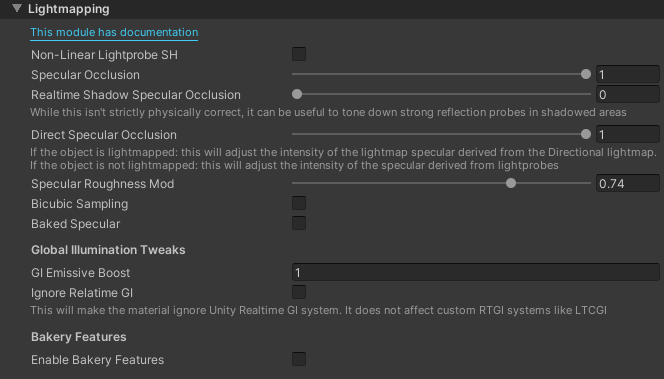
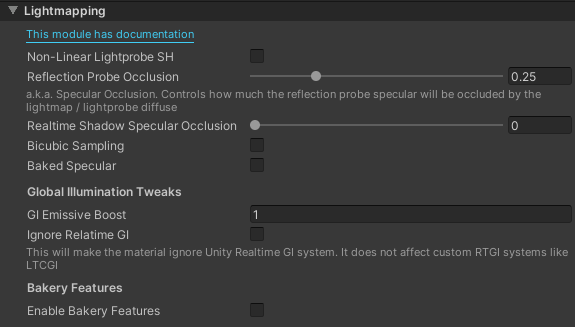
added docs for 6.4.0-dev.8

diff --git a/src/pages/docs/vfx/clouds.md b/src/pages/docs/vfx/clouds.md
@@ -20,17 +20,35 @@ Put this shader on a pre-subdivided mesh. I recommend anywhere from 32k to 128k 
 
 ## Settings
 
-- Noise Tex: A special pre-baked noise texture that is not meant to be changed
 - Depth Transparency: Controls the amount of depth-based blending applied. Based on the name - requires a depth light (see below)
-- Color Bottom: Controls the start color of the gradient
+- Apply Shading: Enables realtime Directional Light-base shading using a **Shade Ramp**
+- Shade Ramp: Controls the color of the shading applied to the clouds. Only visible when **Apply Shading** is enabled
+- Tint: Tins the **Shade Ramp**. Only visible when **Apply Shading** is enabled
+- Recalculate Normals: Enables a fairly expensive normal recalculation on the mesh. This can provide more accurate shading results. Only visible when **Apply Shading** is enabled
+- Normal Precision: Controls how close the final normals will be based on the extrusion applied to the mesh. Lower values = higher precision, but noisier results. Only visible when **Apply Shading** is enabled
+- Color Bottom: Controls the start color of the gradient.
 - Color Top: Controls the end color of the gradient
 - Height Bottom: Controls the position of the gradient start, applied in local space
 - Height Top: Controls the position of the gradient end, applied in local space
+
+- Noise Tex: A special pre-baked noise texture that is not meant to be changed
 - Extrusion Mode: Determines the way the cloud movement is done
   - Normal: The mesh will move along the normal vectors of the surface
   - World Space: The mesh will be moved along the pre-determined direction in world space
 - Extrusion Direction: Only visible when Extrusion Mode is set to World Space. Controls the world-space direction of the extrusion applied by the cloud noise
 - Only Top: Only visible when Extrusion Mod is set to World Space. Limits the vertex movement to the upwards-facing vertices
+- Mask Mode: Controls masking of the extrusion effect
+  - Texture: Uses a texture mask to mask the extrusion amount
+  - Vertex Color: Uses the vertex color to mask the extrusion amount
+- Mask: The mask texture to use. Only visible when **Mask Mode** is set to **Texture**
+- Mapping Space: Controls the coordinate space the texture is applied in. Only visible when **Mask Mode** is set to **Texture**
+  - UV: Uses mesh's UV coordinates to map the mask texture
+  - Local Space: Uses the Local Space coordinates of the mesh to map the mask texture
+  - World Space: Uses the World Space coordinates of the mesh to map the mask texture
+- UV Set: Picks the UV set to use for the mask texture. Only visible when **Mask Mode** is set to **Texture** and **Mapping Space** is set to **UV**
+- X/Y Axis: Controls the axis the mask texture is applied on. Only visible when **Mask Mode** is set to **Texture** and **Mapping Space** is set to **Local Space** or **World Space**
+- Mask Channel: Controls which texture or vertex color channel to use for masking. Allows you to pack things more efficiently
+- Mask Strength: Controls the strength of the masking effect
 
 {% callout type="note" title="Requires Depth Pass" %}
 The depth blending effect requires a depth pass in the world. The easiest way to achieve one is to create a light with settings like this:

diff --git a/src/pages/docs/changelog.md b/src/pages/docs/changelog.md
@@ -11,7 +11,7 @@ ORL Shaders Changelog
 
 ### Summary
 
-Update 6.4.0 focuses on improving the current feature set, quality-of-life changes, and fixing bugs
+Update 6.4.0 brings a plethora of new features, improvements, and bugfixes. There is no particular focus in this update. Please enjoy!
 
 ### New Shaders
 
@@ -29,12 +29,17 @@ Update 6.4.0 focuses on improving the current feature set, quality-of-life chang
 - Toon shader can now use outlines without stencil. This can be useful for adding extra detail
 - LTCGI effect brightness can now be clamped to a 0-1 range and has a Maximum Brightness setting
 - You can now use BIRP Standard shader-style Detail Albedo mixing. This can be toggled via "Legacy Albedo Mixing" when using the Separated Detail Map mode.
-- "Direct Specular Occlusion" slider has been added to the Lightmapping section of all the Standard shaders. This can be used to control how much occlusion is applied to baked specular, e.g. from directional lightmaps or lightprobes.
+- "Baked Specular Occlusion" slider has been added to the Lightmapping section of all the Standard shaders. This can be used to control how much occlusion is applied to baked specular, e.g. from directional lightmaps or lightprobes.
+- Added a "Force Discard" toggle to the [UI Sheen](/docs/ui/sheen) shader. This can be used to force-discard transparent pixels of the sprite to avoid white line artifacts on the edges of the sprite.
+- Shader Generator now supports `%PostVertex` function blocks in all Templates. This allows you to modify the final output of the Vertex shader, after the `VertexBase` function runs.
+- The [VFX Clouds](/docs/vfx/clouds) shader got a major update.
+  - Now supports Directional Light-based shading, using a color ramp (similar to toon shaders).
+  - Now supports normal recalculation. This provides more accurate shading that follows the extruded shape of the clouds. This effect can be a little noisy, so you can use the Precision slider to adjust it until it looks good.
 
 ### Bugfixes
 
 - The tangent normals sign is now properly calculated per-vertex. This should not affect most users
-- Specular occlusion now properly occludes reflection probes again. You might need to tune the Specular Occlusion slider to adjust the effect
+- Specular occlusion now properly occludes reflection probes again. You might need to tune the Specular Occlusion slider to adjust the effect. Please note that the slider has been renamed to "Reflection Probe Occlusion" in the UI
 - Fixed off-by-one errors in the channel selector for Albedo and Emission textures
 - Shader tags are now de-duplicated automatically, this can help with some issues with Bakery Lightmapper
 
@@ -42,6 +47,8 @@ Update 6.4.0 focuses on improving the current feature set, quality-of-life chang
 
 - The channel packer will now default Alpha channel slot to read from the Red channel, as that is the most common use-case
 - Updated the Tessellated Displacement shader to use latest shader generator tech. It now has MONOSH and can be used with Configurable shaders.
+- "Specular Occlusion" has been renamed to "Reflection Probe Occlusion" to better reflect what is happening under the hood.
+- Some properties in the Lightmapping section were moved around to improve usability.
 
 ## v6.3.0
 

diff --git a/src/pages/docs/orl-standard/base-shader.md b/src/pages/docs/orl-standard/base-shader.md
@@ -182,14 +182,16 @@ GSAA, or Geometric Specular Anti Aliasing, helps avoid severe specular aliasing 
 ![Lightmapping Controls](/img/docs/orl-standard/base-shader/lightmapping.png)
 
 - Non-Linear Lightprobe SH: Enables higher quality lightprobe sampling which is more accurate and behaves much better in high-intensity lighting scenarios. Is recommended for use on PC platforms, but might be fairly expensive on mobile.
-- Specular Occlusion: Controls the amount of Specular Occlusion applied to the material. This helps limit the amount of "unity shine" which is often present on metallic surfaces (see comparison below). This applies to both lightmapped and non-lightmapped objects
+- Reflection Probe Occlusion (Previously **Specular Occlusion**): Controls the amount of Specular Occlusion applied to the reflection probe specular on this material. This helps limit the amount of "unity shine" which is often present on metallic surfaces (see comparison below). This applies to both lightmapped and non-lightmapped objects
 - Realtime Shadow Specular Occlusion: Controls the amount of Specular Occlusion driven by the Realtime Shadows. This effect is not physically accurate but it can be useful to tame the strong specular on dynamically lit objects.
-- Direct Specular Occlusion: Controls how much occlusion to apply to various sources of direct baked specular.
+- Bicubic Sampling: Dramatically increases quality of the baked shadows, especially on the lower resolution lightmaps at a fairly small performance hit
+- Baked Specular: Toggles the display of baked specular
+  - If the object is lightmapped - the Directional lightmap will be used. Recommended to be used with Bakery's MonoSH mode
+  - If the object is not lightmapped - the specular will be derived from Light Probes. Useful for avatars and other dynamic meshes
+- Specular Roughness Mod: Allows you to influence the roughness of Baked Specular, which can sometimes be too intensive due to imperfections of Baked Specular direction
+- Baked Specular Occlusion: Controls how much occlusion to apply to various sources of direct baked specular.
   - If the object is lightmapped: this will adjust the intensity of the lightmap specular derived from the Directional lightmap.
   - If the object is not lightmapped: this will adjust the intensity of the specular derived from lightprobes
-- Specular Roughness Mod: Allows you to influence the roughness of Baked Specular, which can sometimes be too intensive due to imperfections of Baked Specular direction
-- Bicubic Sampling: Dramatically increases quality of the baked shadows, especially on the lower resolution lightmaps at a fairly small performance hit
-- Baked Specular: Toggles the display of baked specular. Only relevant when using some kind of Directional lightmap, e.g., Dominant Direction or Bakery's RNM or SH.
 - Global Illumination Tweaks
   - GI Emissive Boost: Boosts the emissive contribution to the Global Illumination, can be useful for Realtime GI scenarios
   - Ignore Realtime GI: Completely skips applying Realtime Lightmaps, which can be useful in scenarios where you want to only use Realtime GI for light probes

diff --git a/src/pages/docs/generator/orl-shader-definition.md b/src/pages/docs/generator/orl-shader-definition.md
@@ -241,6 +241,10 @@ You must provide a function name, and it must be unique across all included modu
 
 Same as [Fragment](#fragmentstring-functionname) but now its injected into the vertex stage
 
+### `%PostVertex(string functionName)`
+
+Same as [Vertex](#vertexstring-functionname) but this one is injected after the main `VertexBase` function of the Lighting Model. This is useful if you want to modify the vertex data after the main vertex function has already run.
+
 ### `%Color(string functionName)`
 
 Contains your FinalColor modifier code. It is appended after the lighting calculations have already been done, and allows to affect the very final output of the shader
@@ -359,7 +363,7 @@ The built-in templates allow you to enable optional features by specifying some 
 - `NEED_DEPTH`: Adds the depth texture macro, which creates a depth texture as `_CameraDepthTexture`
 - `NEED_FRAGMENT_IN_SHADOW`: Forces the shadowcaster pass to execute all of the included fragment functions (except the lighting calculation), useful if you want to utilize the final calculated alpha to augment the shadow silhouette.
 - `NEED_FRAGMENT_IN_PREPASS`: When using Toon template with `PrePass` `TemplateFeature` enabled - forces the prepass to execute all of the included fragment functions. Majority of the time, to save performance, you probably want to reimplement the bare minimum of the calculations inside a custom `PrePassColor` function instead of using this define.
-- `EXTRA_V2F_0`, `EXTRA_V2F_1`, `EXTRA_V2F_2`, `EXTRA_V2F_3`: Tells the the templates to compile in extra float4s in the Vertex stage so you can pass some custom data to your Fragment stage, see the struct definition below
+- `EXTRA_V2F_0`, `EXTRA_V2F_1`, `EXTRA_V2F_2`, `EXTRA_V2F_3`: Tells the templates to compile in extra float4s in the Vertex stage so you can pass some custom data to your Fragment stage, see the struct definition below
 
 ## Mesh and Surface Data
 

diff --git a/src/pages/docs/ui/sheen.md b/src/pages/docs/ui/sheen.md
@@ -21,6 +21,7 @@ A metallic-like effect for your UI Elements
   - Lighten: Picks the lightest color between the base color and the sheen effect
   - Screen: Stacks the lightness of the base color and the sheen effect
   - Multiply: Multiplies the base color and the sheen effect (produces darkest edges)
+- Force Discard: Force-discards transparent pixels to avoid potential white pixel artifacts on sprite edges. Especially useful when using no sprite at all.
 
 {% callout type="note" title="Shader Channels Required" %}
 Make sure your root Canvas component has **Normal** checked in the **Additional Shader Channels** dropdown when using this shader
